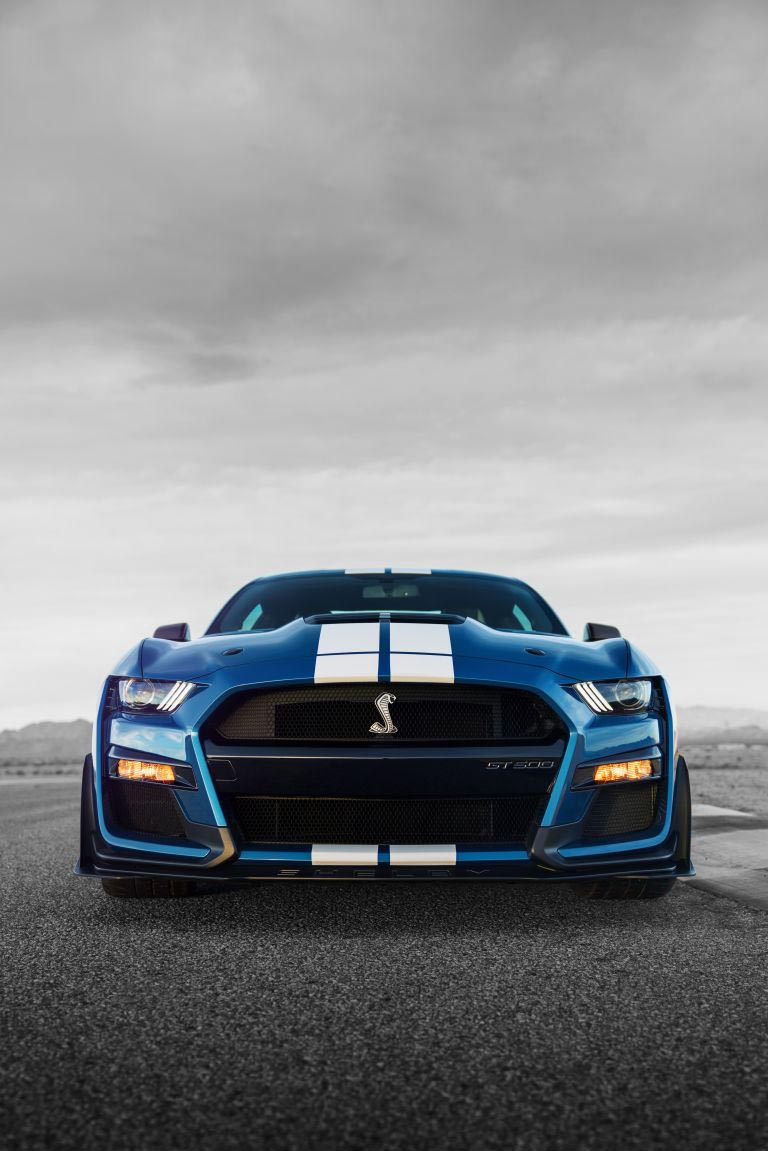
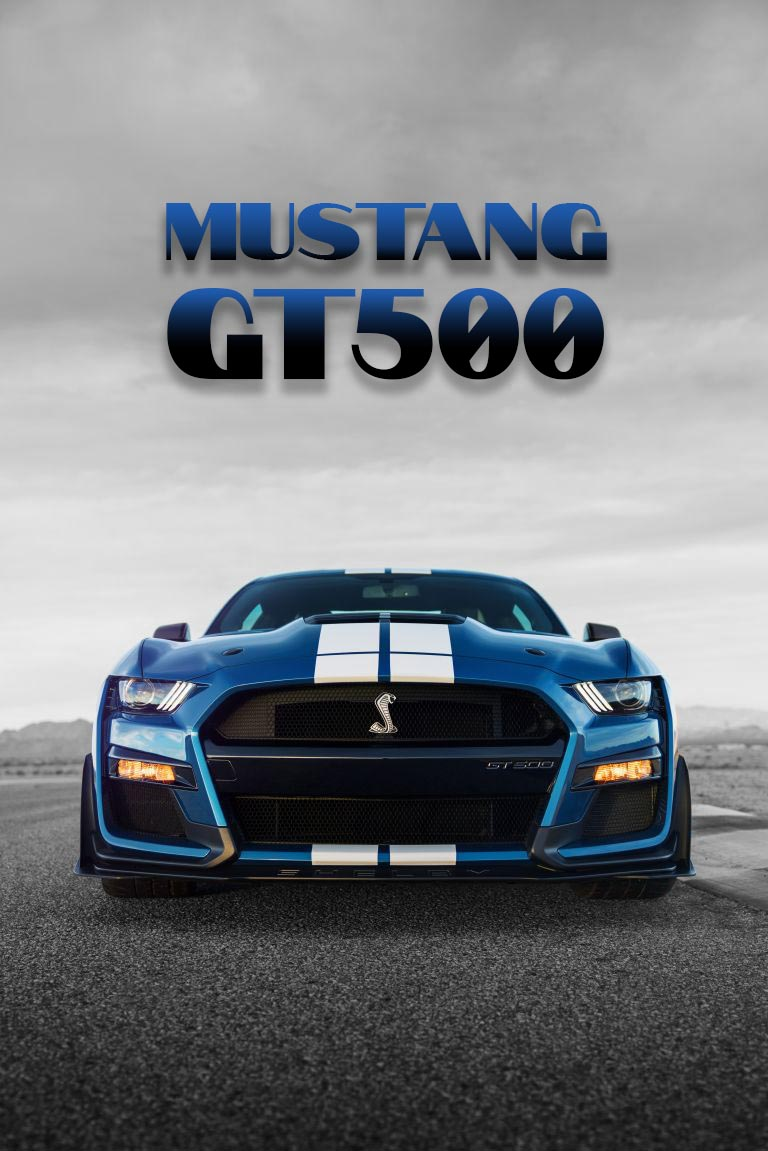
201122-1

Changed region(s): [[0.1875, 0.152, 0.8125, 0.3649]]

diff --git a/script/script.js b/script/script.js
@@ -26,7 +26,7 @@ $(document).ready(function(){
         $("#performance-info").hide();
         $("#truck-info").hide();
         $("#future-info").hide();
-        $("#home-info").hide();
+        $("#home-box").hide();
     });
     $("header > .model-logo > ul > .menu > .hide > li > .suv").click(function(){
         $("header > .model-logo > ul > .menu > .hide").slideUp(100);
@@ -37,7 +37,7 @@ $(document).ready(function(){
         $("#performance-info").hide();
         $("#truck-info").hide();
         $("#future-info").hide();
-        $("#home-info").hide();
+        $("#home-box").hide();
     });
     $("header > .model-logo > ul > .menu > .hide > li > .commercial").click(function(){
         $("header > .model-logo > ul > .menu > .hide").slideUp(100);
@@ -48,7 +48,7 @@ $(document).ready(function(){
         $("#performance-info").hide();
         $("#truck-info").hide();
         $("#future-info").hide();
-        $("#home-info").hide();
+        $("#home-box").hide();
     });
     $("header > .model-logo > ul > .menu > .hide > li > .hybrid").click(function(){
         $("header > .model-logo > ul > .menu > .hide").slideUp(100);
@@ -59,7 +59,7 @@ $(document).ready(function(){
         $("#performance-info").hide();
         $("#truck-info").hide();
         $("#future-info").hide();
-        $("#home-info").hide();
+        $("#home-box").hide();
     });
     $("header > .model-logo > ul > .menu > .hide > li > .performance").click(function(){
         $("header > .model-logo > ul > .menu > .hide").slideUp(100);
@@ -70,7 +70,7 @@ $(document).ready(function(){
         $("#performance-info").show();
         $("#truck-info").hide();
         $("#future-info").hide();
-        $("#home-info").hide();
+        $("#home-box").hide();
     });
     $("header > .model-logo > ul > .menu > .hide > li > .truck").click(function(){
         $("header > .model-logo > ul > .menu > .hide").slideUp(100);
@@ -81,7 +81,7 @@ $(document).ready(function(){
         $("#performance-info").hide();
         $("#truck-info").show();
         $("#future-info").hide();
-        $("#home-info").hide();
+        $("#home-box").hide();
     });
     $("header > .model-logo > ul > .menu > .hide > li > .future").click(function(){
         $("header > .model-logo > ul > .menu > .hide").slideUp(100);
@@ -92,7 +92,7 @@ $(document).ready(function(){
         $("#performance-info").hide();
         $("#truck-info").hide();
         $("#future-info").show();
-        $("#home-info").hide();
+        $("#home-box").hide();
     });
     
     

diff --git a/Feedback_for_FORD.html b/Feedback_for_FORD.html
@@ -20,7 +20,7 @@
             font-family: 'Noto Sans KR', sans-serif;
         }
         .close-button{
-            font-size:30px;
+            font-size:35px;
             background-color: #fff;
             border:1px solid #000;
             width:200px;
@@ -36,7 +36,7 @@
 </head>
 <body>
     <p>감사합니다.<br>최대한 빠른 시일 내에 연락드리겠습니다.</p>
-    <input type="button" value=닫기 class="close-button" onclick="self.close();" >
+    <button input type="button" value="닫기" class="close-button" onclick="self.close();" >닫기</button>
 </body>
     
 </html>

diff --git a/index.html b/index.html
@@ -75,7 +75,6 @@
             </div>
             <div class="main-txt-box">
                 <a href="#">
-                    <p class="main-txt1">MUSTANG GT500</p>
                     <p class="main-txt2">COMING SOON</p>
                     <p class="main-txt3">새로워진 GT500을 만나보세요</p>
                 </a>

diff --git a/css/style.css b/css/style.css
@@ -168,8 +168,8 @@ body {
 
     #home-box .main-info .main-txt-box .main-txt1 {
         font-size: 18px;
-        font-weight: bold;
         color: #003478;
+        font-family: 'Fugaz One',cursive;
     }
 
     #home-box .main-info .main-txt-box .main-txt2,
